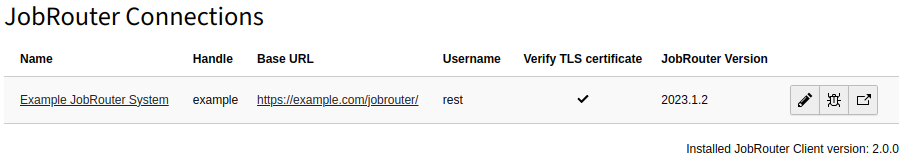
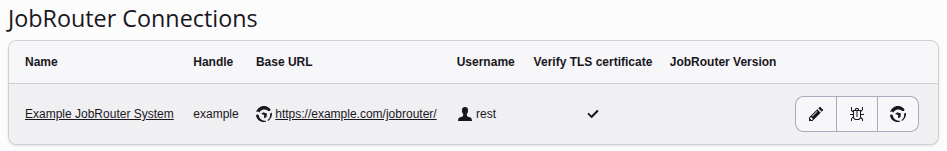
Review documentation and update screenshots

diff --git a/Documentation/Developer/_MyController.php b/Documentation/Developer/_MyController.php
@@ -9,18 +9,12 @@ use JobRouter\AddOn\Typo3Connector\Exception\ConnectionNotFoundException;
 use JobRouter\AddOn\Typo3Connector\RestClient\RestClientFactory;
 use Psr\Http\Message\ResponseInterface;
 
-final class MyController
+final readonly class MyController
 {
-    private ConnectionRepository $connectionRepository;
-    private RestClientFactory $restClientFactory;
-
     public function __construct(
-        ConnectionRepository $connectionRepository,
-        RestClientFactory $restClientFactory,
-    ) {
-        $this->connectionRepository = $connectionRepository;
-        $this->restClientFactory = $restClientFactory;
-    }
+        private ConnectionRepository $connectionRepository,
+        private RestClientFactory $restClientFactory,
+    ) {}
 
     public function myAction(): ResponseInterface
     {

diff --git a/Documentation/Developer/Index.rst b/Documentation/Developer/Index.rst
@@ -27,14 +27,14 @@ Let's have a look at an example in the TYPO3 context:
 
 Explanation:
 
-#. Line 29: Retrieve the :php:`Connection` entity class with handle `example`,
+#. Line 23: Retrieve the :php:`Connection` entity class with handle `example`,
    which holds the base URL of the JobRouter® installation and the credentials.
    Of course, the connection must be registered first in the
    :guilabel:`Connections` :ref:`module <usage-module>`.
-#. Lines 30-32: It can be the case that there is no connection entity available:
+#. Lines 24-26: It can be the case that there is no connection entity available:
    There is no connection with handle `example` or the connection is disabled.
    So you have to consider this case.
-#. Line 35: Create the REST client with the :php:`create()` method of the
+#. Line 29: Create the REST client with the :php:`create()` method of the
    :php:`RestClientFactory`. The first argument is the :php:`Connection` model,
    the second argument the optional lifetime of the authentication token. With
    the call the authentication is done immediately, so an exception can be

diff --git a/Documentation/Usage/Index.rst b/Documentation/Usage/Index.rst
@@ -18,8 +18,9 @@ The connections to JobRouter® installations are managed in the backend module
 .. note::
    The module is only available in the live workspace.
 
-On your first visit after installing the extension you should see the following
-screen:
+On your first visit after installing the extension and
+:ref:`generating the key <configuration-key-generation>` you should see the
+following screen:
 
 .. figure:: /Images/no-connections-found.png
    :alt: Initial Connections module screen

diff --git a/Documentation/Configuration/Index.rst b/Documentation/Configuration/Index.rst
@@ -13,8 +13,8 @@ Extension configuration
 =======================
 
 To configure the extension, go to
-:guilabel:`Admin Tools > Settings > Extension Configuration` and click on the
-:guilabel:`Configure extension` button. Open the :guilabel:`jobrouter_connector`
+:guilabel:`System > Settings > Extension Configuration` and click on the
+:guilabel:`Configure extensions ...` button. Open the :guilabel:`jobrouter_connector`
 configuration:
 
 .. figure:: /Images/extension-configuration.png
